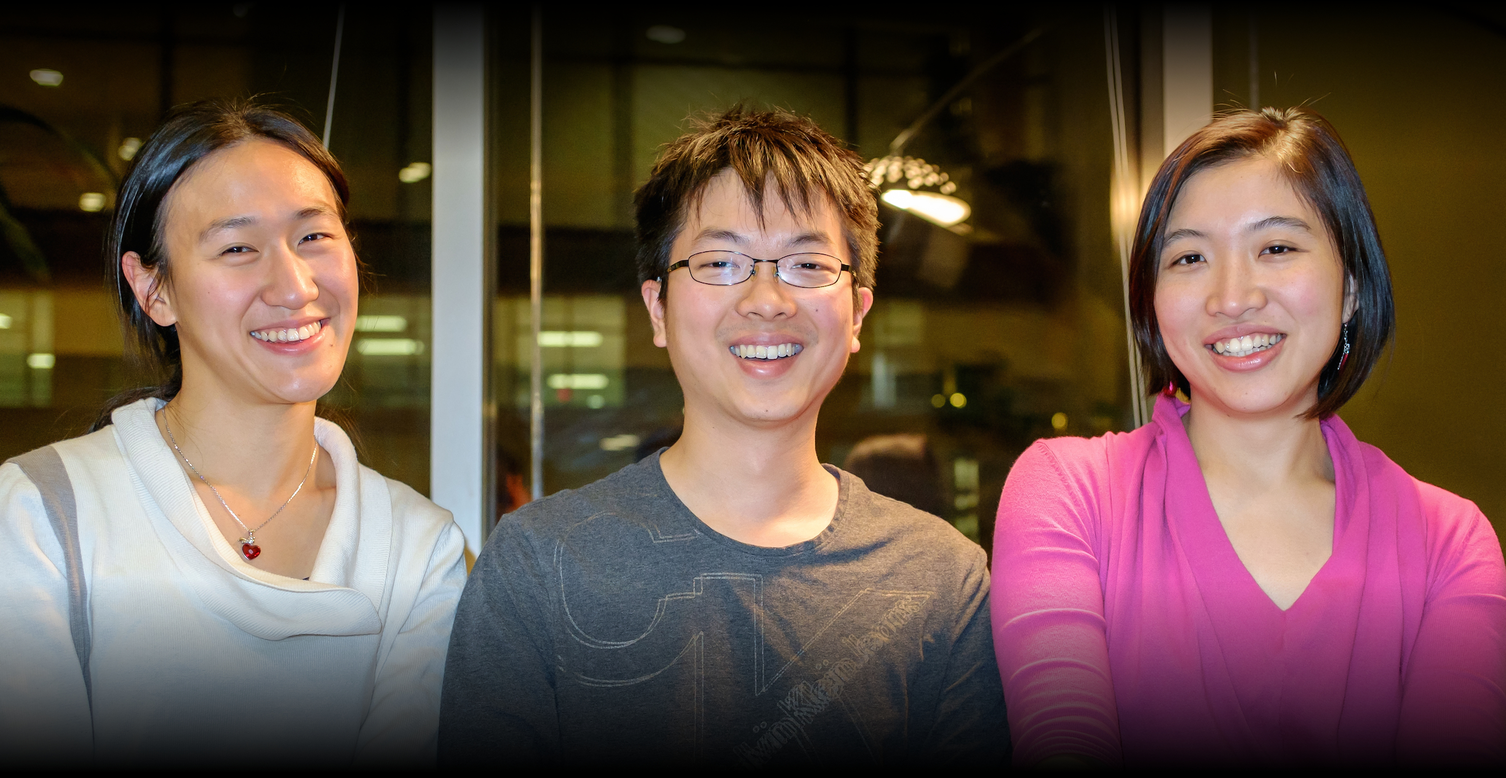
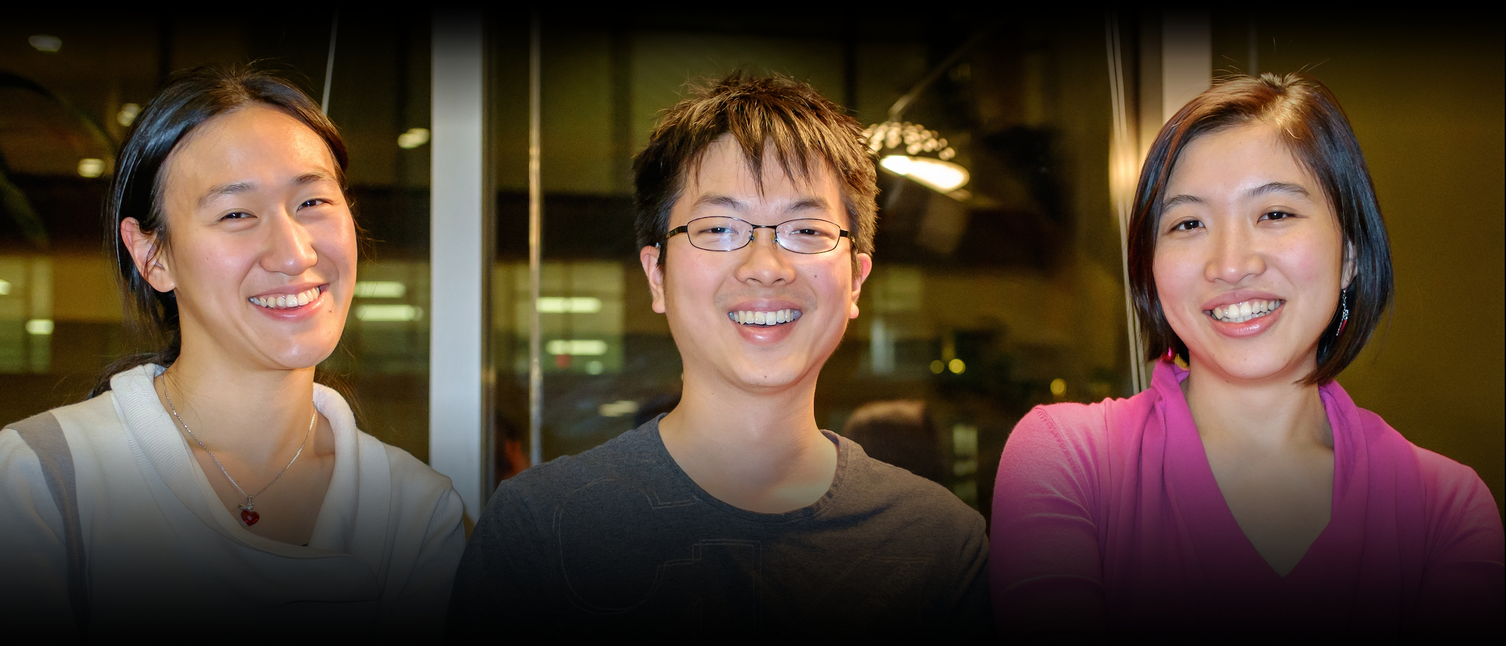
tweak the photo

diff --git a/css/grayscale.css b/css/grayscale.css
@@ -405,7 +405,7 @@ body {
 }
 
 #team {
-    padding-top: 20px;
+    padding-top: 0px;
     font-size: 25px;
 }
 
